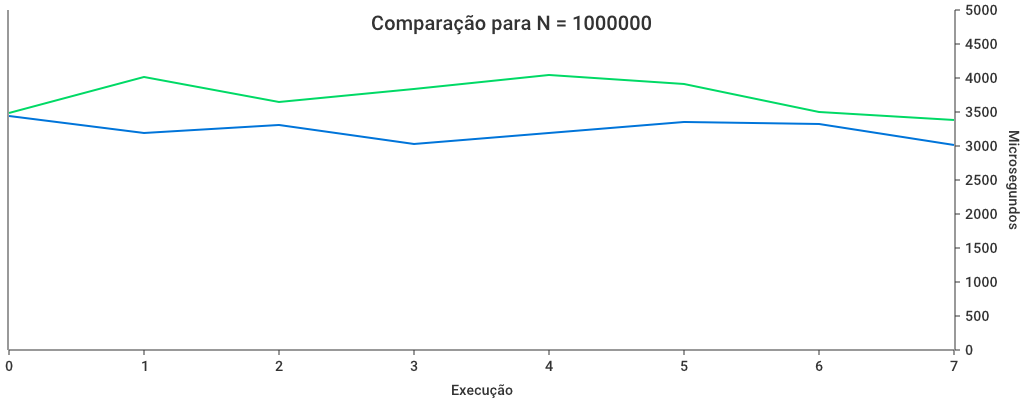
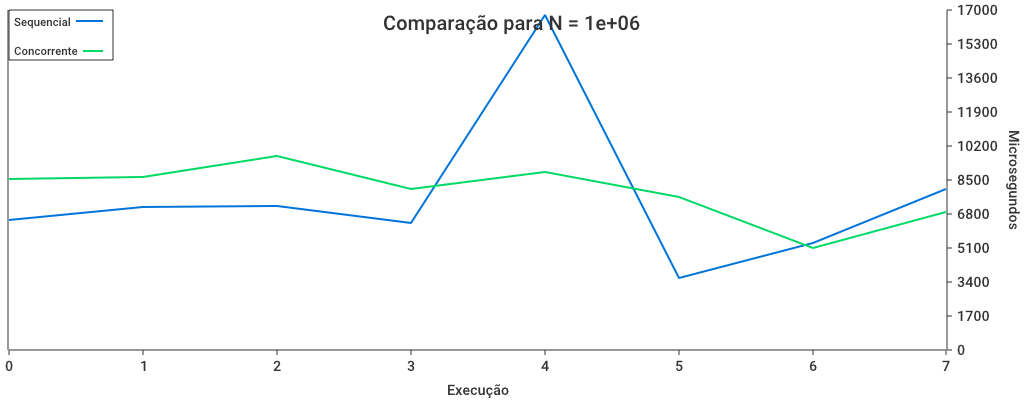
Adição de legendas

diff --git a/graph.go b/graph.go
@@ -10,8 +10,8 @@ import (
 )
 
 func main() {
-	makeDiffLineGraph([]int{500000, 1000000, 5000000, 10000000, 50000000}, "diff-chart")
-	makeDiffPercLineGraph([]int{500000, 1000000, 5000000, 10000000, 50000000}, "perc-chart")
+	//makeDiffLineGraph([]int{500000, 1000000, 5000000, 10000000, 50000000}, "diff-chart")
+	//makeDiffPercLineGraph([]int{500000, 1000000, 5000000, 10000000, 50000000}, "perc-chart")
 
 	makeLineGraph(500000, "chart1")
 	makeLineGraph(1000000, "chart2")
@@ -245,7 +245,7 @@ func makeLineGraph(n int, name string) {
 	}
 
 	graph := chart.Chart{
-		Title:      fmt.Sprintf("Comparação para N = %v", n),
+		Title:      fmt.Sprintf("Comparação para N = %.0e", float64(n)),
 		TitleStyle: chart.Style{FontSize: 14},
 		XAxis: chart.XAxis{
 			Name:  "Execução",
@@ -257,6 +257,7 @@ func makeLineGraph(n int, name string) {
 		},
 		Series: []chart.Series{
 			chart.ContinuousSeries{
+				Name: "Sequencial",
 				Style: chart.Style{
 					StrokeColor: chart.DefaultColors[0],
 					StrokeWidth: 2,
@@ -265,6 +266,7 @@ func makeLineGraph(n int, name string) {
 				YValues: yValuesSeq,
 			},
 			chart.ContinuousSeries{
+				Name: "Concorrente",
 				Style: chart.Style{
 					StrokeColor: chart.DefaultColors[1],
 					StrokeWidth: 2,
@@ -273,6 +275,10 @@ func makeLineGraph(n int, name string) {
 				YValues: yValuesConc,
 			},
 		},
+	}
+
+	graph.Elements = []chart.Renderable{
+		chart.Legend(&graph),
 	}
 
 	file, _ := os.Create(name + ".png")
